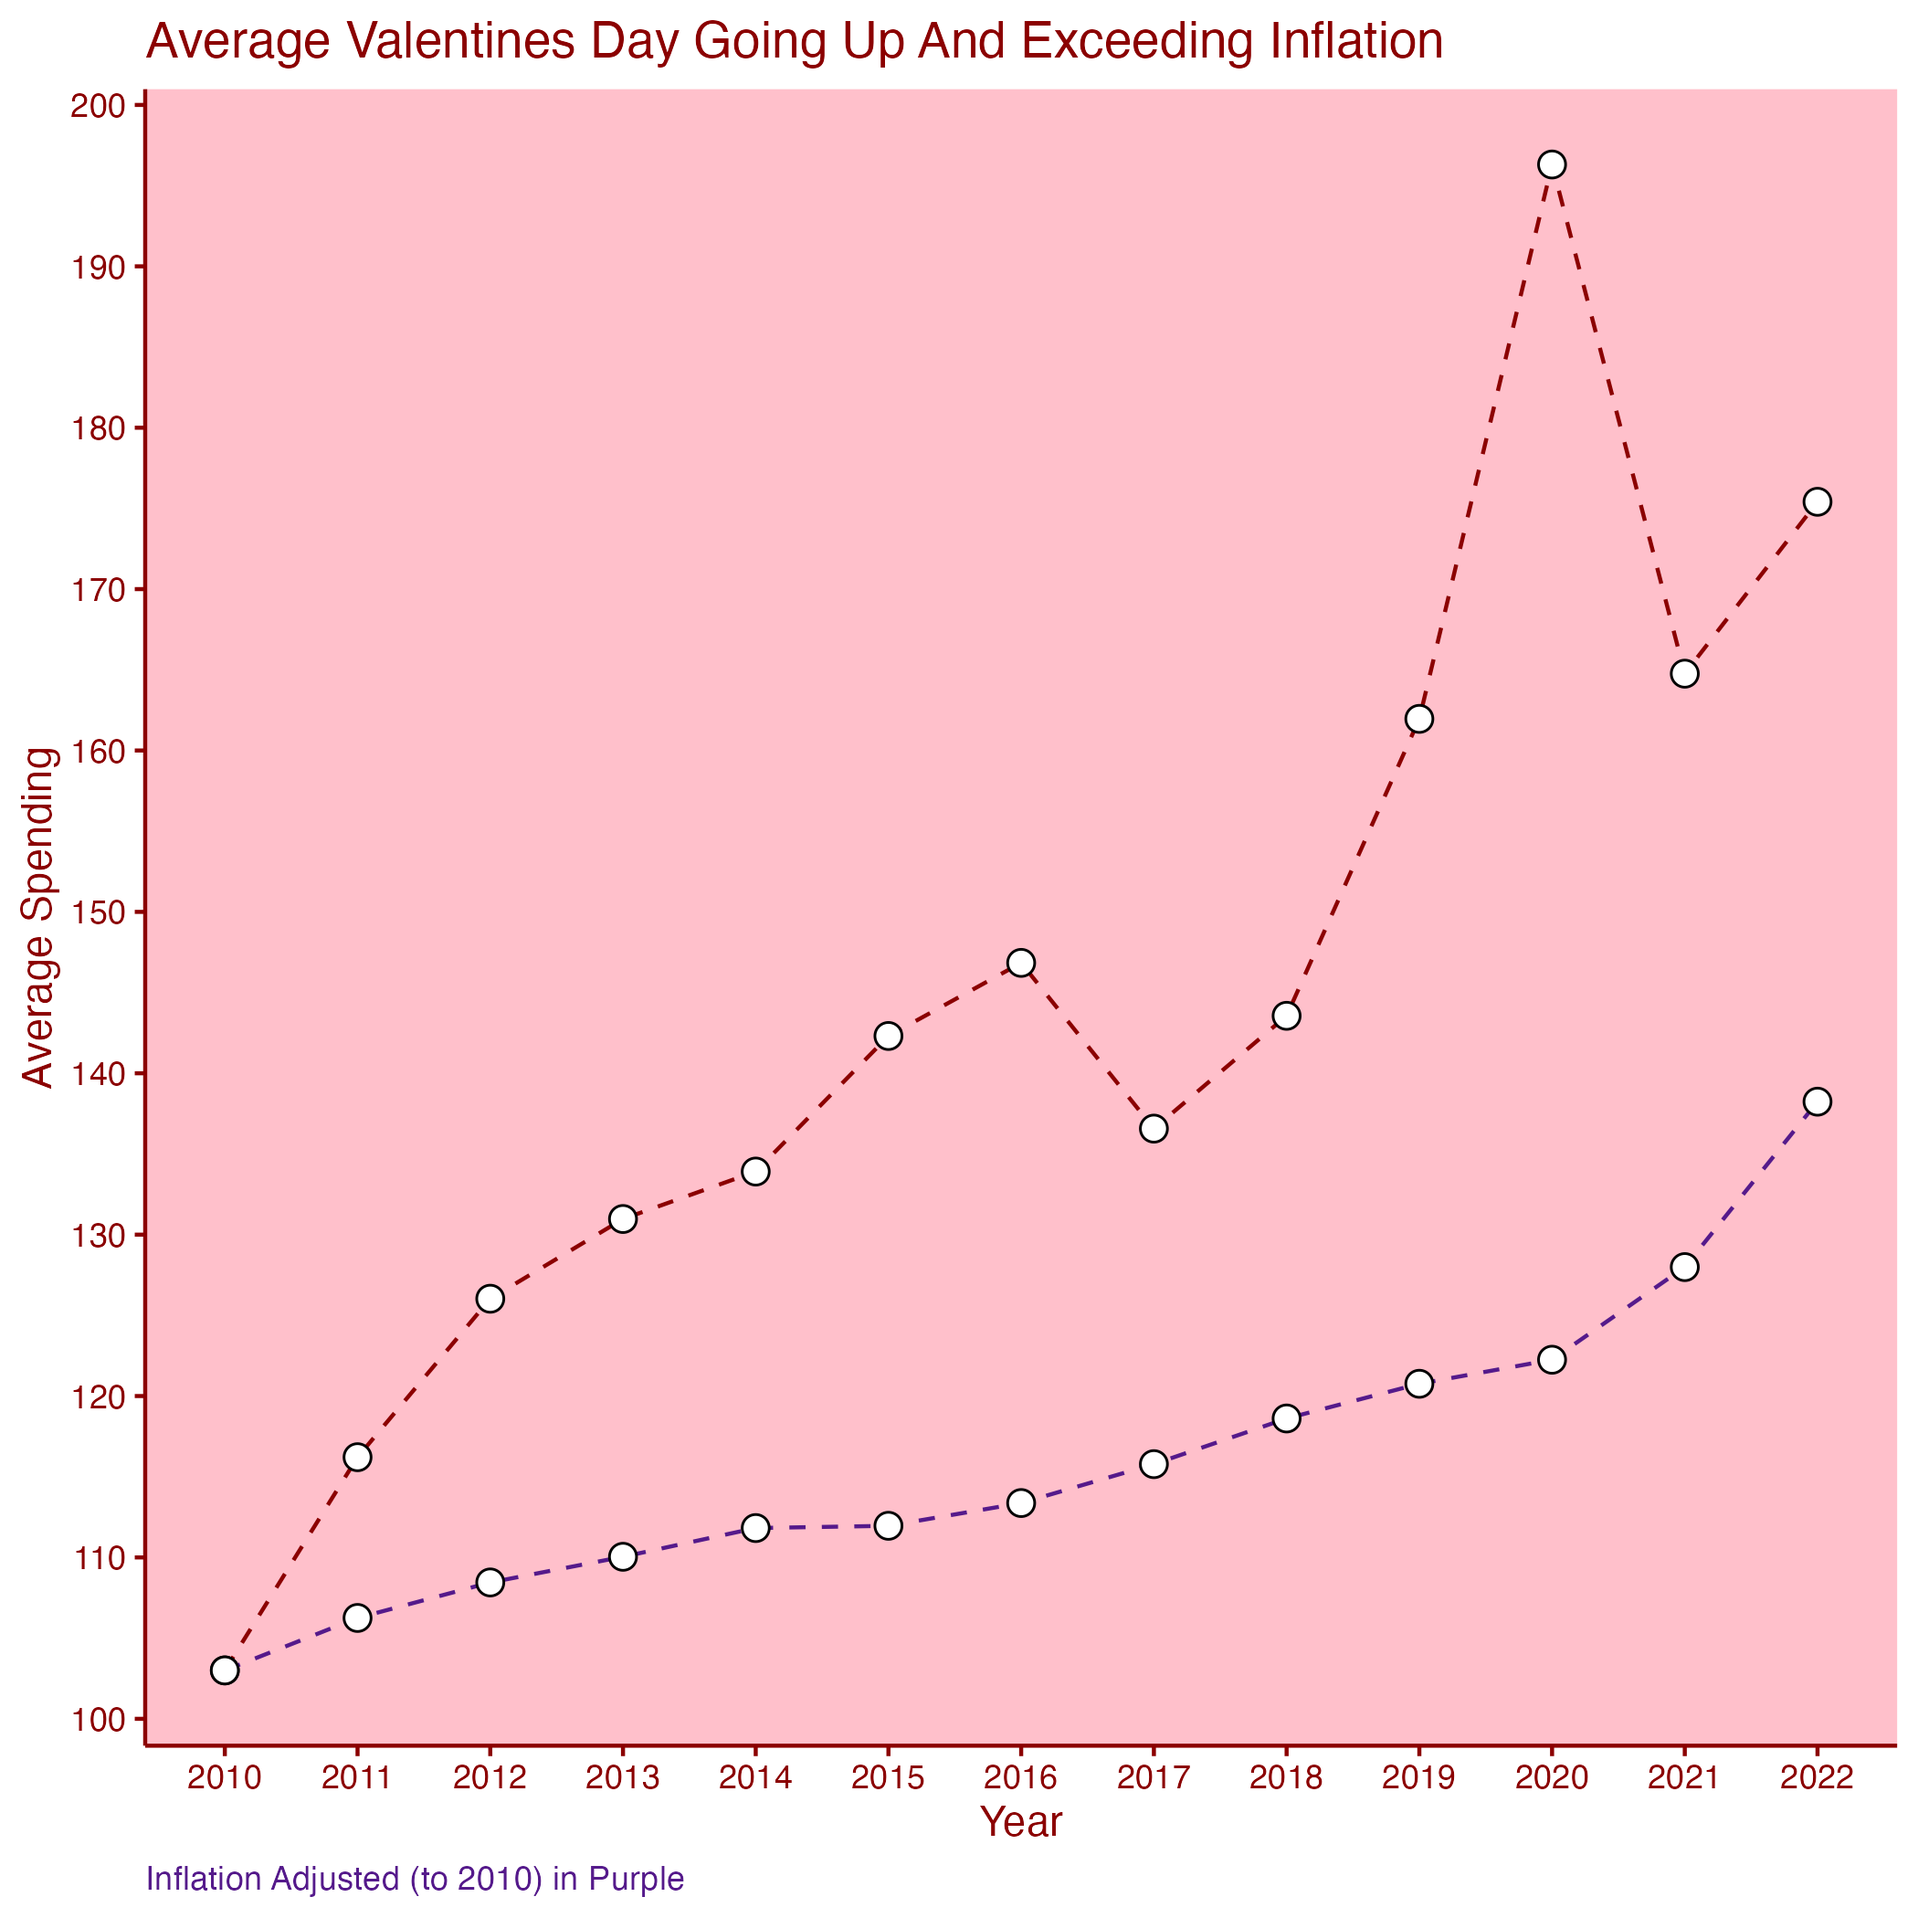
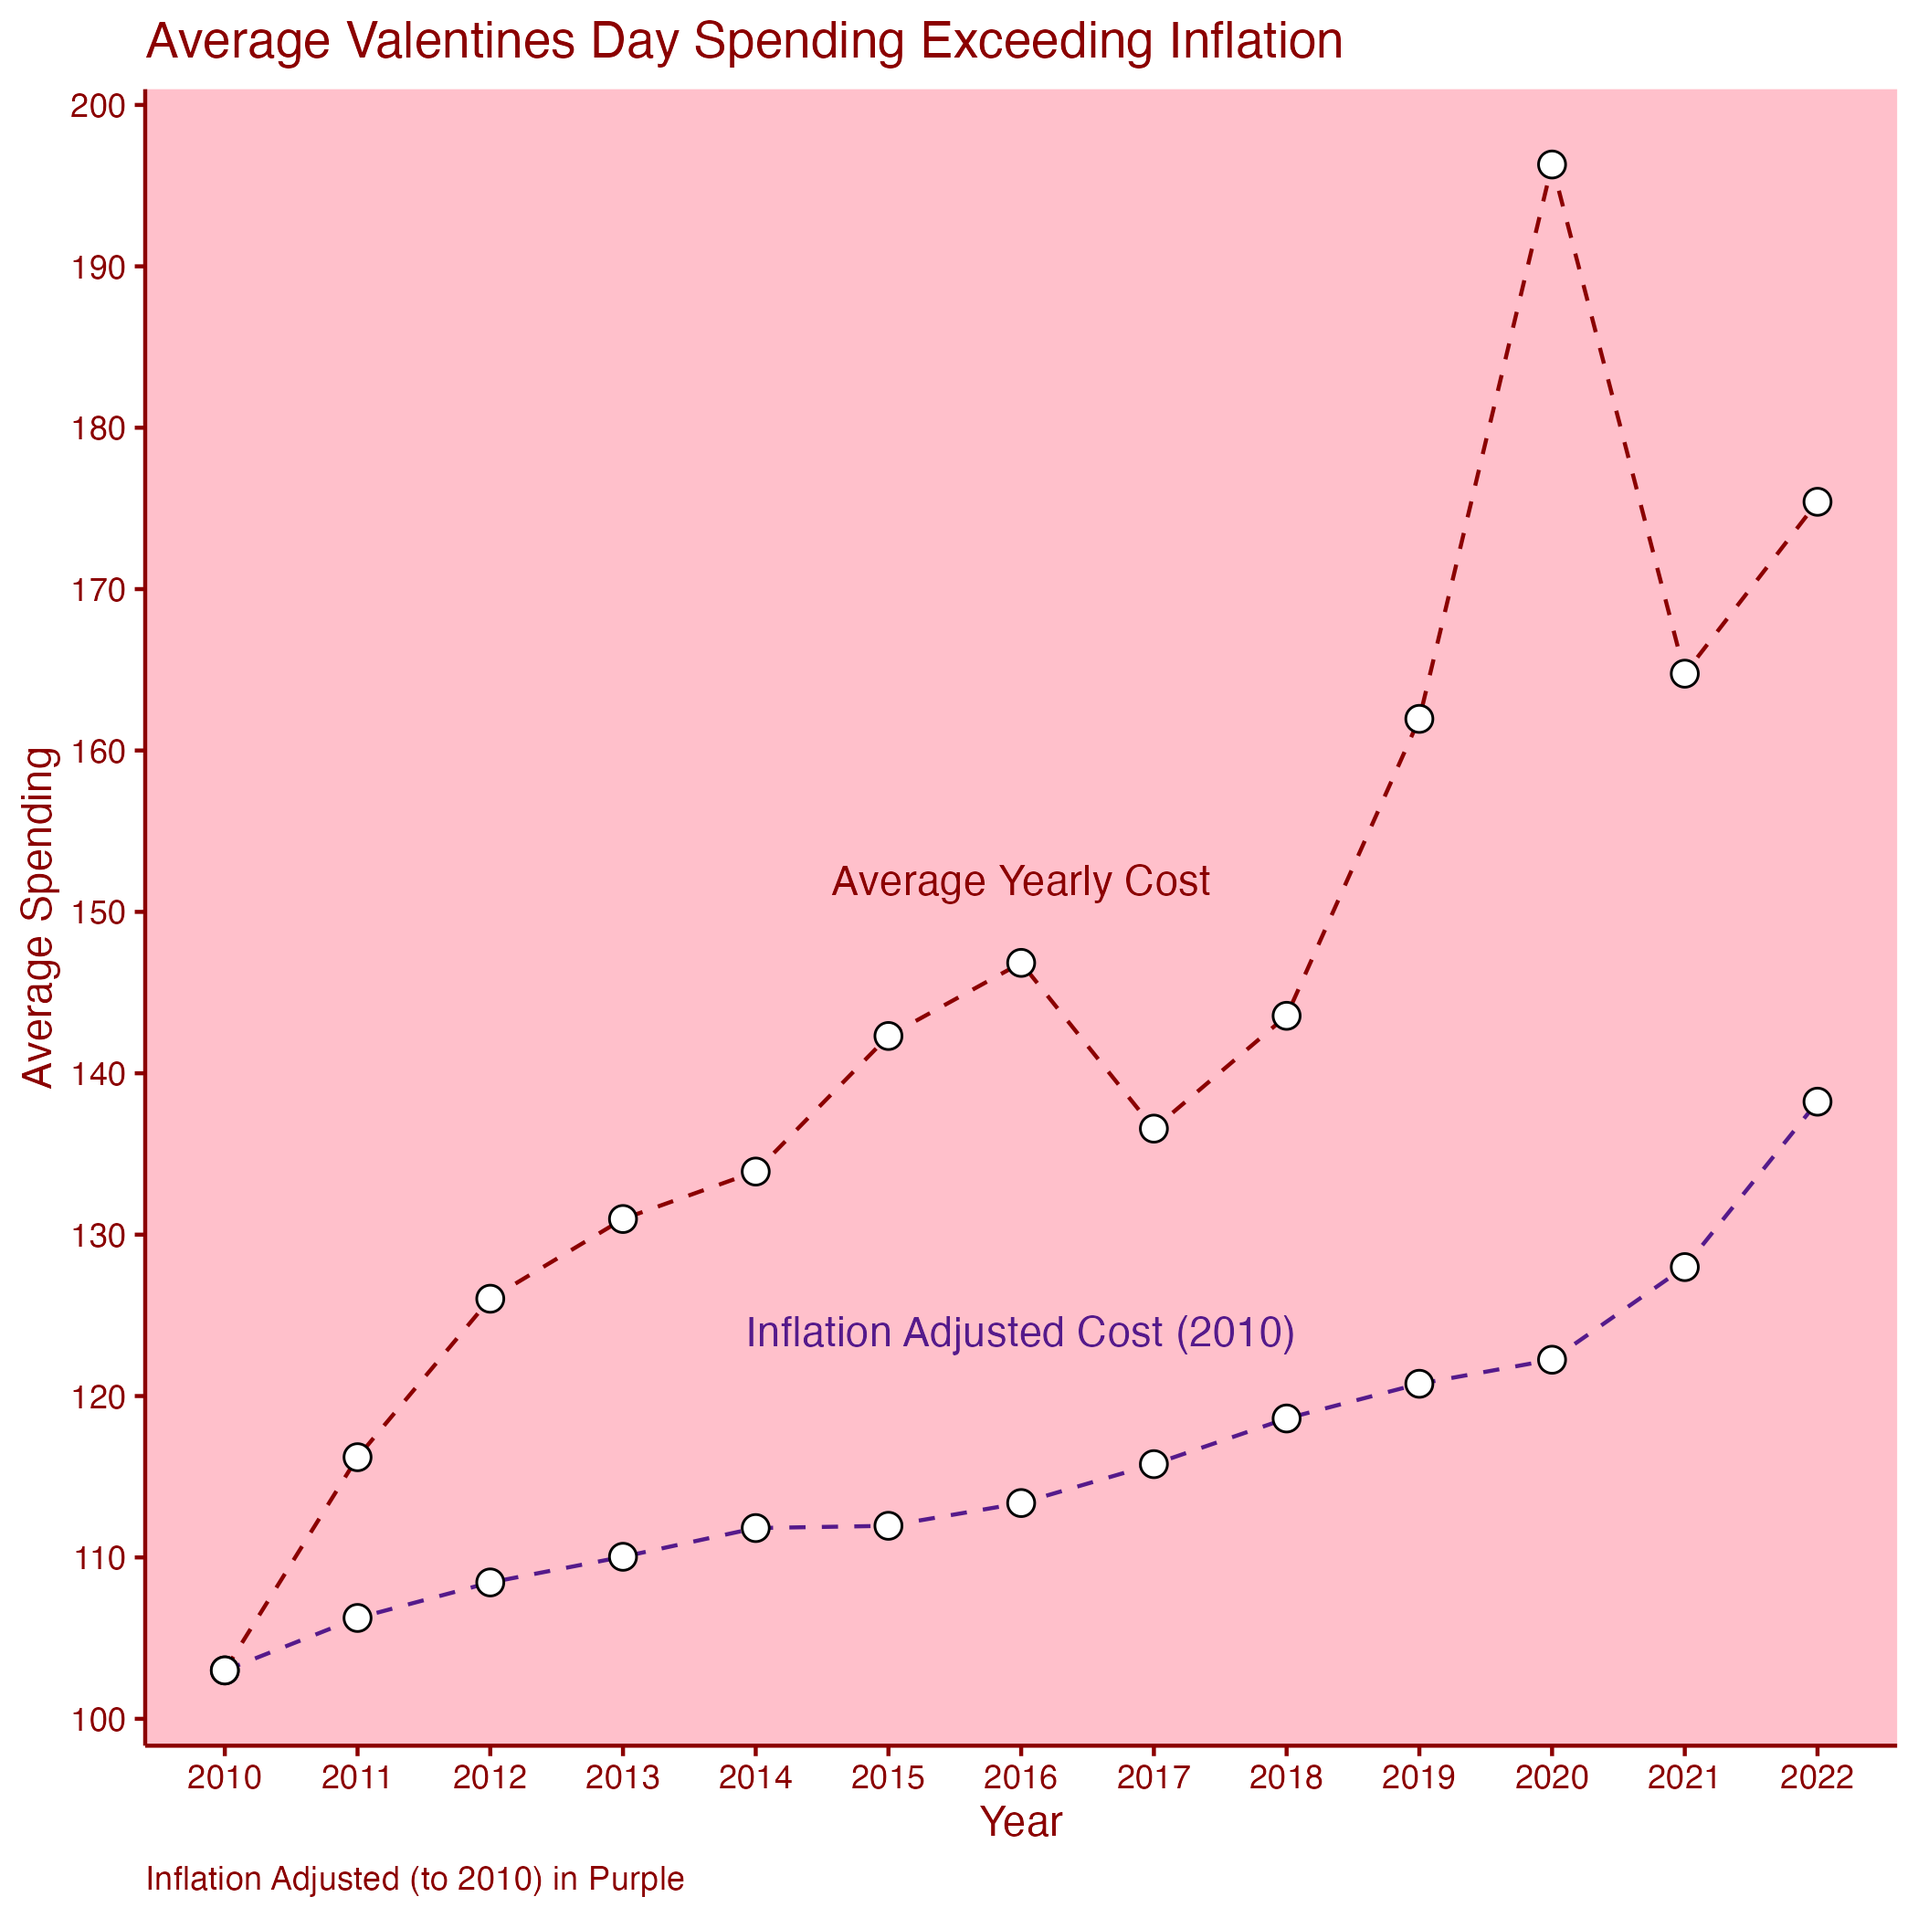
Added text labels

diff --git a/_site/tidytuesday/2_14_24/index.html b/_site/tidytuesday/2_14_24/index.html
@@ -350,6 +350,7 @@ pre > code.sourceCode > span > a:first-child::before { text-decoration: underlin
 
 </header><div class="cell">
 <div class="sourceCode" id="cb1"><pre class="downlit sourceCode r code-with-copy"><code class="sourceCode R"><span><span class="kw"><a href="https://rdrr.io/r/base/library.html">library</a></span><span class="op">(</span><span class="va"><a href="https://tidyverse.tidyverse.org">tidyverse</a></span><span class="op">)</span></span>
+<span><span class="kw"><a href="https://rdrr.io/r/base/library.html">library</a></span><span class="op">(</span><span class="va"><a href="https://allancameron.github.io/geomtextpath/">geomtextpath</a></span><span class="op">)</span></span>
 <span></span>
 <span><span class="va">historical_spending</span> <span class="op">&lt;-</span> <span class="fu"><a href="https://rdrr.io/r/utils/read.table.html">read.csv</a></span><span class="op">(</span><span class="st">"historical_spending_modified.csv"</span><span class="op">)</span></span>
 <span></span>
@@ -365,7 +366,7 @@ pre > code.sourceCode > span > a:first-child::before { text-decoration: underlin
 <span>  <span class="fu"><a href="https://ggplot2.tidyverse.org/reference/geom_point.html">geom_point</a></span><span class="op">(</span><span class="fu"><a href="https://ggplot2.tidyverse.org/reference/aes.html">aes</a></span><span class="op">(</span>x<span class="op">=</span><span class="va">Year</span>,y<span class="op">=</span><span class="va">inflation</span><span class="op">)</span>, shape <span class="op">=</span> <span class="fl">21</span>, colour <span class="op">=</span> <span class="st">"black"</span>, fill <span class="op">=</span> <span class="st">"white"</span>, size <span class="op">=</span> <span class="fl">3</span><span class="op">)</span> <span class="op">+</span></span>
 <span>  <span class="fu"><a href="https://ggplot2.tidyverse.org/reference/labs.html">labs</a></span><span class="op">(</span>x <span class="op">=</span> <span class="st">"Year"</span>,</span>
 <span>       y <span class="op">=</span> <span class="st">"Average Spending"</span>,</span>
-<span>       title <span class="op">=</span> <span class="st">"Average Valentines Day Going Up And Exceeding Inflation"</span>,</span>
+<span>       title <span class="op">=</span> <span class="st">"Average Valentines Day Spending Exceeding Inflation"</span>,</span>
 <span>       caption <span class="op">=</span> <span class="st">"Inflation Adjusted (to 2010) in Purple"</span><span class="op">)</span> <span class="op">+</span></span>
 <span>  <span class="fu"><a href="https://ggplot2.tidyverse.org/reference/ggtheme.html">theme_classic</a></span><span class="op">(</span><span class="op">)</span> <span class="op">+</span></span>
 <span>  <span class="fu"><a href="https://ggplot2.tidyverse.org/reference/theme.html">theme</a></span><span class="op">(</span>plot.title <span class="op">=</span> <span class="fu"><a href="https://ggplot2.tidyverse.org/reference/element.html">element_text</a></span><span class="op">(</span>color<span class="op">=</span><span class="st">"darkred"</span><span class="op">)</span>,</span>
@@ -376,8 +377,10 @@ pre > code.sourceCode > span > a:first-child::before { text-decoration: underlin
 <span>        axis.ticks <span class="op">=</span> <span class="fu"><a href="https://ggplot2.tidyverse.org/reference/element.html">element_line</a></span><span class="op">(</span>color<span class="op">=</span><span class="st">"darkred"</span><span class="op">)</span>,</span>
 <span>        axis.line.x <span class="op">=</span> <span class="fu"><a href="https://ggplot2.tidyverse.org/reference/element.html">element_line</a></span><span class="op">(</span>color<span class="op">=</span><span class="st">"darkred"</span><span class="op">)</span>,</span>
 <span>        axis.line.y <span class="op">=</span> <span class="fu"><a href="https://ggplot2.tidyverse.org/reference/element.html">element_line</a></span><span class="op">(</span>color<span class="op">=</span><span class="st">"darkred"</span><span class="op">)</span>,</span>
-<span>        plot.caption <span class="op">=</span> <span class="fu"><a href="https://ggplot2.tidyverse.org/reference/element.html">element_text</a></span><span class="op">(</span>hjust <span class="op">=</span> <span class="fl">0</span>,color<span class="op">=</span><span class="st">"purple4"</span><span class="op">)</span>,</span>
-<span>        panel.background <span class="op">=</span> <span class="fu"><a href="https://ggplot2.tidyverse.org/reference/element.html">element_rect</a></span><span class="op">(</span>fill<span class="op">=</span><span class="st">"pink"</span><span class="op">)</span><span class="op">)</span></span></code><button title="Copy to Clipboard" class="code-copy-button"><i class="bi"></i></button></pre></div>
+<span>        plot.caption <span class="op">=</span> <span class="fu"><a href="https://ggplot2.tidyverse.org/reference/element.html">element_text</a></span><span class="op">(</span>hjust <span class="op">=</span> <span class="fl">0</span>,color<span class="op">=</span><span class="st">"darkred"</span><span class="op">)</span>,</span>
+<span>        panel.background <span class="op">=</span> <span class="fu"><a href="https://ggplot2.tidyverse.org/reference/element.html">element_rect</a></span><span class="op">(</span>fill<span class="op">=</span><span class="st">"pink"</span><span class="op">)</span><span class="op">)</span> <span class="op">+</span></span>
+<span>  <span class="fu"><a href="https://ggplot2.tidyverse.org/reference/annotate.html">annotate</a></span><span class="op">(</span>geom<span class="op">=</span><span class="st">"text"</span>, x<span class="op">=</span><span class="fl">2016</span>, y<span class="op">=</span><span class="fl">124</span>, label<span class="op">=</span><span class="st">"Inflation Adjusted Cost (2010)"</span>,color<span class="op">=</span><span class="st">"purple4"</span><span class="op">)</span> <span class="op">+</span></span>
+<span>  <span class="fu"><a href="https://ggplot2.tidyverse.org/reference/annotate.html">annotate</a></span><span class="op">(</span>geom<span class="op">=</span><span class="st">"text"</span>, x<span class="op">=</span><span class="fl">2016</span>, y<span class="op">=</span><span class="fl">152</span>, label<span class="op">=</span><span class="st">"Average Yearly Cost"</span>,color<span class="op">=</span><span class="st">"darkred"</span><span class="op">)</span></span></code><button title="Copy to Clipboard" class="code-copy-button"><i class="bi"></i></button></pre></div>
 </div>
 <div class="cell">
 <div class="cell-output-display">

diff --git a/_site/tidytuesday.html b/_site/tidytuesday.html
@@ -377,7 +377,7 @@ window.Quarto = {
 
 <div class="quarto-listing quarto-listing-container-default" id="listing-listing">
 <div class="list quarto-listing-default">
-<div class="quarto-post image-right" data-index="0" data-categories="Valentines,R,TidyTuesday" data-listing-date-sort="1707886800000" data-listing-file-modified-sort="1708800833504" data-listing-date-modified-sort="NaN" data-listing-reading-time-sort="2" data-listing-word-count-sort="246">
+<div class="quarto-post image-right" data-index="0" data-categories="Valentines,R,TidyTuesday" data-listing-date-sort="1707886800000" data-listing-file-modified-sort="1708808055635" data-listing-date-modified-sort="NaN" data-listing-reading-time-sort="2" data-listing-word-count-sort="276">
 <div class="thumbnail">
 <p><a href="./tidytuesday/2_14_24/index.html" class="no-external"></a></p><a href="./tidytuesday/2_14_24/index.html" class="no-external">
 <p><img src="./tidytuesday/2_14_24/valentines.png" class="thumbnail-image" alt="A photo with a heart shape"></p>
